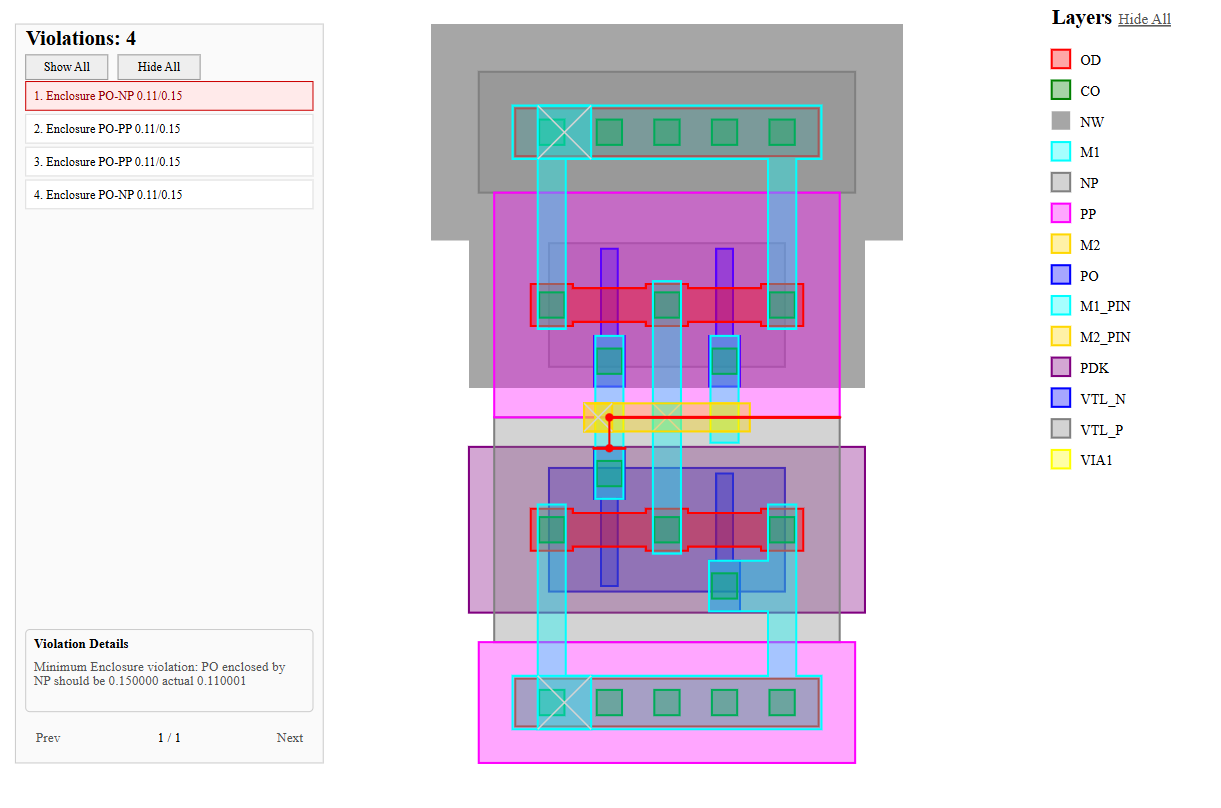
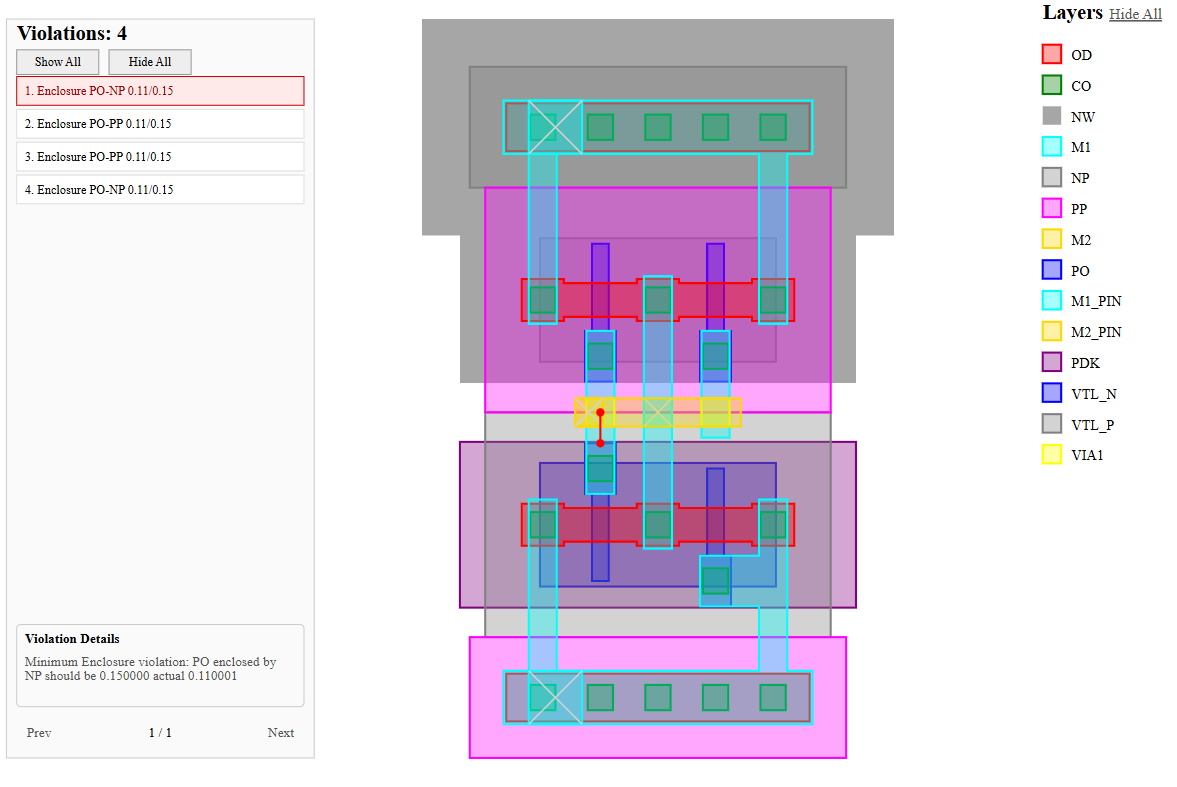
Refine violation reporting and marker serialization
Improve precision and clarity of violation messages and marker serialization in DRCheck. Spacing and enclosure markers now only include closest-point witnesses, omitting edge indices; minimum width violations retain both points and edge indices. Update JSON and SVG outputs for concise, accurate marker data (e.g., `firstLayer` as string). Round reported values to four decimals. Update README and unit tests to reflect changes. SVG overlays for spacing/enclosure now show only measurement lines and points. Minor message and formatting corrections throughout.

diff --git a/tests/rules/MinSpacingRuleTest.cpp b/tests/rules/MinSpacingRuleTest.cpp
@@ -43,10 +43,6 @@ TEST(MinSpacingRuleTest, DetectsSpacingViolation)
 	ASSERT_TRUE(violations[0].getMarker().has_value());
 	const auto& marker = violations[0].getMarker().value();
 	// First nearst edge (point)
-	ASSERT_TRUE(marker.firstEdgeIndex.has_value());
-	ASSERT_TRUE(marker.secondEdgeIndex.has_value());
-	EXPECT_EQ(marker.firstEdgeIndex, 1);
-	EXPECT_EQ(marker.secondEdgeIndex, 3);
 	ASSERT_TRUE(marker.firstPoint.has_value());
 	ASSERT_TRUE(marker.secondPoint.has_value());
 	EXPECT_NEAR(Point::vectorBetween(marker.firstPoint.value(), marker.secondPoint.value()).length(), 2.0, EPSILON);
@@ -183,10 +179,6 @@ TEST(MinSpacingRuleTest, IntersectingShapesAgainstMinSpacing) {
 	EXPECT_EQ(violations[0].getShapeIds()[1], 2);
 	ASSERT_TRUE(violations[0].getMarker().has_value());
 	const auto& marker = violations[0].getMarker().value();
-	ASSERT_TRUE(marker.firstEdgeIndex.has_value());
-	ASSERT_TRUE(marker.secondEdgeIndex.has_value());
-	EXPECT_EQ(marker.firstEdgeIndex, 0);
-	EXPECT_EQ(marker.secondEdgeIndex, 0);
 	ASSERT_TRUE(marker.firstPoint.has_value());
 	ASSERT_TRUE(marker.secondPoint.has_value());
 	EXPECT_NEAR(Point::vectorBetween(marker.firstPoint.value(), marker.secondPoint.value()).length(), 0.0, EPSILON);
@@ -404,11 +396,6 @@ TEST(MinSpacingRuleTest, DetectsContainedPolygon)
 	EXPECT_NEAR(violations[0].getRequiredValue(), 3.0, EPSILON);
 	ASSERT_TRUE(violations[0].getMarker().has_value());
 	const auto& marker = violations[0].getMarker().value();
-	// First nearst edge (point)
-	ASSERT_TRUE(marker.firstEdgeIndex.has_value());
-	ASSERT_TRUE(marker.secondEdgeIndex.has_value());
-	EXPECT_EQ(marker.firstEdgeIndex, 1);
-	EXPECT_EQ(marker.secondEdgeIndex, 1);
 	ASSERT_TRUE(marker.firstPoint.has_value());
 	ASSERT_TRUE(marker.secondPoint.has_value());
 	// Distance can be retrieved as we calculate distance between 2 points

diff --git a/tests/rules/MinEnclosureRuleTest.cpp b/tests/rules/MinEnclosureRuleTest.cpp
@@ -84,7 +84,7 @@ TEST(MinEnclosureRuleTest, RejectsLessThanMinEnclosure)
     Shape first(1, Layer::M1, Purpose::Drawing, std::move(firstPolygon));
     Shape second(2, Layer::VIA1, Purpose::Drawing, std::move(secondPolygon));
     MinEnclosureRule rule(Layer::VIA1, Layer::M1, 3.0);
-    const std::vector<Shape> shapes{first, second};
+    const std::vector<Shape> shapes{ first, second };
     LayerSpatialIndex spatialIndex(shapes);
     const auto violations = rule.check(shapes, spatialIndex);
 
@@ -97,20 +97,9 @@ TEST(MinEnclosureRuleTest, RejectsLessThanMinEnclosure)
     ASSERT_TRUE(violations[0].getMarker().has_value());
     const auto& marker = violations[0].getMarker().value();
     // First nearst edge (point)
-    ASSERT_TRUE(marker.firstEdgeIndex.has_value());
-    EXPECT_EQ(marker.firstEdgeIndex, 0);
-    ASSERT_TRUE(marker.secondEdgeIndex.has_value());
-    EXPECT_EQ(marker.secondEdgeIndex, 3);
     ASSERT_TRUE(marker.firstPoint.has_value());
     ASSERT_TRUE(marker.secondPoint.has_value());
     EXPECT_NEAR(Point::vectorBetween(marker.firstPoint.value(), marker.secondPoint.value()).length(), 2.0, EPSILON);
-    const auto innerEdges = second.getPolygon().getEdges();
-    const auto outerEdges = first.getPolygon().getEdges();
-    ASSERT_TRUE(marker.firstEdgeIndex.has_value());
-    ASSERT_TRUE(marker.secondEdgeIndex.has_value());
-    EXPECT_TRUE(innerEdges[marker.firstEdgeIndex.value()].contains(marker.firstPoint.value()));
-    EXPECT_TRUE(outerEdges[marker.secondEdgeIndex.value()].contains(marker.secondPoint.value()));
-
 }
 
 TEST(MinEnclosureRuleTest, IntersectingAllowedOuterLayerReportsZeroEnclosure) // Intersecting polygon should return violation as enclosure distance is zero

diff --git a/src/rules/MinWidthRule.cpp b/src/rules/MinWidthRule.cpp
@@ -34,9 +34,9 @@ std::vector<domain::Violation> MinWidthRule::check(const std::vector<domain::Sha
 				.secondEdgeIndex = actualWidth.secondEdgeIndex,
 				.firstLayer = getLayer()
 			};
-			const std::string msg = "Minimum width violation on layer: " + domain::layerToString(layer) + "should be " + std::to_string(minimumWidth) + " actual" + std::to_string(actualWidth.distance);
+			const std::string msg = "Minimum width violation on layer: " + domain::layerToString(layer) + " should be " + std::to_string(minimumWidth) + " actual " + std::to_string(actualWidth.distance);
 			// If the shape's width is less than the minimum width, create a violation (object) and add it to the violations vector
-			violations.emplace_back(domain::ViolationType::MinWidth, std::vector<std::size_t>{shape.getId()}, std::move(msg), actualWidth.distance, minimumWidth, marker);
+			violations.emplace_back(domain::ViolationType::MinWidth, std::vector<std::size_t>{shape.getId()}, msg, actualWidth.distance, minimumWidth, marker);
 		}
 	}
 	return violations;

diff --git a/src/rules/MinSpacingRule.cpp b/src/rules/MinSpacingRule.cpp
@@ -50,14 +50,12 @@ std::vector<domain::Violation> MinSpacingRule::check(const std::vector<domain::S
                 domain::ViolationMarker marker{
                     .firstPoint = actualSpacing.firstPoint,
                     .secondPoint = actualSpacing.secondPoint,
-                    .firstEdgeIndex = actualSpacing.firstEdgeIndex,
-                    .secondEdgeIndex = actualSpacing.secondEdgeIndex,
                     .firstLayer = getLayer()
                 };
                 const std::string msg = "Minimum spacing violation on layer: " + domain::layerToString(layer) + "should be " + std::to_string(minimumSpacing) + " actual" + std::to_string(actualSpacing.distance);
 
                 violations.emplace_back(domain::ViolationType::MinSpacing, std::vector<std::size_t>{firstShape.getId(), secondShape->getId()},
-                    "Minimum spacing violation", actualSpacing.distance, minimumSpacing, marker);
+                   msg, actualSpacing.distance, minimumSpacing, marker);
             }
         }
     }

diff --git a/src/rules/MinEnclosureRule.cpp b/src/rules/MinEnclosureRule.cpp
@@ -334,8 +334,6 @@ std::vector<domain::Violation> MinEnclosureRule::check(const std::vector<domain:
             domain::ViolationMarker marker{
                 .firstPoint = actualEnclosure.firstPoint,
                 .secondPoint = actualEnclosure.secondPoint,
-                .firstEdgeIndex = actualEnclosure.firstEdgeIndex,
-                .secondEdgeIndex = actualEnclosure.secondEdgeIndex,
                 .firstLayer = getInnerLayer(),
                 .secondLayer = bestFailedOuterShape->getLayer()
             };

diff --git a/src/io/SVGReportWriter.cpp b/src/io/SVGReportWriter.cpp
@@ -82,7 +82,7 @@ namespace drcheck::io {
 
         double roundForReport(double value)
         {
-            constexpr double scale = 1'000.0;
+            constexpr double scale = 10'000.0;
             return std::round(value * scale) / scale;
         }
 

diff --git a/src/io/JSONReportWriter.cpp b/src/io/JSONReportWriter.cpp
@@ -8,7 +8,7 @@
 namespace {
     double roundForReport(double value)
     {
-        constexpr double scale = 1'000'000.0;
+        constexpr double scale = 10'000.0;
         return std::round(value * scale) / scale;
     }
 }

diff --git a/README.md b/README.md
@@ -11,7 +11,6 @@ DRCheck is a C++ Design Rule Checker for simplified IC layouts. The project focu
 The current end-to-end application and integration tooling can:
 
 - load purpose-tagged layout geometry from JSON and rule definitions from JSON or Tcl;
-- preserve supplied shape IDs during parsing, generate deterministic normalized IDs for checking, and distinguish supported drawing and pin geometry;
 - export supported Cadence Virtuoso layout geometry to DRCheck JSON with optional hierarchy flattening;
 - normalize connected same-layer polygons before DRC execution;
 - translate parsed rule parameters into validated polymorphic rules through a central factory;
@@ -20,7 +19,7 @@ The current end-to-end application and integration tooling can:
 - check missing enclosure and configure alternative outer layers with all-sides or opposite-pair requirements from C++, JSON, or Tcl;
 - build one shared, layer-aware spatial index for a rule run;
 - report actual and required rule values;
-- attach optional point/edge or region-based witness geometry to violations;
+- attach optional closest-point witnesses, edge indices where applicable, or region-based geometry to violations;
 - write machine-readable JSON reports;
 - render fitted SVG layouts with highlighted violation geometry, including density regions; and
 - provide an interactive, paginated SVG violation browser with layer visibility, selective overlays, hover details, and cursor-centered zoom.
@@ -519,7 +518,7 @@ The geometry layer is isolated under `drcheck::geometry` and contains no rule or
 - polygon area clipped to an axis-aligned bounding box through `areaInsideWindow()`; and
 - detailed edge-pair and closest-point results.
 
-Detailed measurements preserve the geometry that produced them. `DistanceResult` stores the distance and closest points, while `PolygonEdgePairResult` also identifies the corresponding polygon edges. Rules use those results to create optional `ViolationMarker` data.
+Detailed measurements preserve the geometry that produced them. `DistanceResult` stores the distance and closest points, while `PolygonEdgePairResult` also identifies the corresponding polygon edges. Rules select only the witness data needed by their reports: width violations retain points and edge indices, while spacing and enclosure violations retain the closest-point pair without edge indices.
 
 `contains(const Polygon&, bool includeBoundary = false)` now defaults to strict containment. Passing `true` allows boundary touching or shared boundary segments while still rejecting proper crossings. The point overload retains its boundary-inclusive default. `MinEnclosureRule` explicitly requests boundary-inclusive polygon containment so touching geometry can be measured and evaluated against the configured requirement.
 
@@ -540,9 +539,9 @@ A `Violation` records:
 - required rule value; and
 - an optional `ViolationMarker`.
 
-`ViolationMarker` supports two forms of violation geometry. Distance- and width-based rules can preserve two witness points and their polygon-edge indices, while window-based rules can preserve a region. It also carries optional `firstLayer` and `secondLayer` values so a report can describe the physical layer or layer pair independently of shape lookup. Width, spacing, enclosure, and density rules populate the applicable layer fields; `DensityRule` uses the region form plus `firstLayer` to identify the exact failing window and its target layer.
+`ViolationMarker` supports optional witness points, polygon-edge indices, and a region. `MinWidthRule` stores two witness points plus the two corresponding edge indices. `MinSpacingRule` and `MinEnclosureRule` store only their two closest witness points; their `firstEdgeIndex` and `secondEdgeIndex` fields remain unset. Window-based density violations store a region instead. The marker also carries optional `firstLayer` and `secondLayer` values so a report can describe the physical layer or layer pair independently of shape lookup. Width, spacing, enclosure, and density rules populate the applicable layer fields; `DensityRule` uses the region form plus `firstLayer` to identify the exact failing window and its target layer.
 
-`JSONReportWriter` serializes marker geometry only when it is present. Point/edge markers retain their witness fields, and region markers emit the region bounds needed by downstream consumers. Reported actual values, witness coordinates, and region bounds are rounded to six decimal places to avoid floating-point noise. The SVG writer consumes the marker layer fields for human-readable violation summaries and measurement labels.
+`JSONReportWriter` serializes marker fields only when they are present. Width markers can therefore contain `firstPoint`, `secondPoint`, `firstEdgeIndex`, and `secondEdgeIndex`, while spacing and enclosure markers emit their points without edge-index fields. Region markers emit the bounds needed by downstream consumers. Reported actual values, witness coordinates, and region bounds are rounded to avoid floating-point noise. The SVG writer consumes the marker layer fields for human-readable violation summaries and measurement labels.
 
 An unenclosed inner shape produces an `Enclosure` violation with only its own shape ID, the message `Inner shape is not enclosed by any allowed outer layer`, and `actual = 0.0`, `required = 0.0`. Its marker identifies `firstLayer` but has no point, edge, or region witness. Those zero values describe the missing-enclosure case, not a configured zero threshold; consumers should inspect the message and participating IDs.
 
@@ -576,13 +575,13 @@ This makes the SVG stacking order deterministic while retaining source order wit
 
 Only layers that exist in the current layout appear in the legend. It provides clickable per-layer controls plus `Hide All`/`Show All`. Hiding a layer hides its shapes, related violation-list rows, and any active shape-referenced overlays associated with that layer.
 
-The left panel turns the standalone SVG into a lightweight violation browser. It shows the total violation count and one compact row per violation containing its number, type, available marker layer or layer pair, and `actual/required` values. Overlays start hidden rather than covering the layout all at once. Clicking a row independently toggles its available red witness edges, measurement line, points, or density region; active rows receive distinct highlighting. Panel-level `Show All` marks every row active and immediately reveals overlays for currently visible rows; `Hide All` clears every selection and overlay. Page/layer updates then synchronize active overlays with layer visibility.
+The left panel turns the standalone SVG into a lightweight violation browser. It shows the total violation count and one compact row per violation containing its number, type, available marker layer or layer pair, and `actual/required` values. Overlays start hidden rather than covering the layout all at once. Clicking a row independently toggles the geometry available for that violation: width can show its two witness edges, measurement line, and points; spacing and enclosure show only their measurement line and closest points; density shows its region. Active rows receive distinct highlighting. Panel-level `Show All` marks every row active and immediately reveals overlays for currently visible rows; `Hide All` clears every selection and overlay. Page/layer updates then synchronize active overlays with layer visibility.
 
 The list is paginated at 19 violations per page with `Prev`, `Next`, and a page indicator, including a valid `1 / 1` state for an empty list. Pagination changes the visible list rows without clearing selected overlays from another page; hiding a related layer does clear the affected selection and overlay.
 
 A dedicated `Violation Details` box displays `Violation::getMessage()` when a row is activated. Deselecting a row returns to `Select a violation` when nothing remains selected, or `Multiple violations selected` otherwise. `Show All` displays `All violations are shown`, while `Hide All` restores the selection prompt. This also exposes the reason for missing-enclosure violations, which have a list entry but no geometric witness to draw. Details currently use a single SVG text line rather than automatic wrapping.
 
-When an active point/edge violation is hovered, its two-line label shows the violation type, available marker layers, and `actual/required` measurement. Shapes provide an SVG tooltip with their normalized shape ID and layer.
+When an active closest-point violation is hovered, its two-line label shows the violation type, available marker layers, and `actual/required` measurement. Shapes provide an SVG tooltip with their normalized shape ID and layer.
 
 The generated SVG contains its own JavaScript and remains a standalone file:
 
@@ -612,7 +611,7 @@ For every shape on the target layer, the rule:
 1. expands the shape bounding box by the required minimum spacing;
 2. queries that layer through the shared `LayerSpatialIndex`;
 3. removes self-pairs and duplicate A-B/B-A pairs; and
-4. calls `Polygon::distanceTo()` for exact spacing and witness geometry.
+4. calls `Polygon::distanceTo()` for exact spacing and the closest-point witness pair.
 
 ```text
 target-layer shape
@@ -690,7 +689,7 @@ For every inner-layer shape, the rule:
 6. when relevant candidates all fail, reports one violation using the alternative closest to passing; and
 7. when no relevant allowed outer geometry exists, reports the inner shape as unenclosed.
 
-Failure selection compares the all-sides deficit with each orientation's largest pair deficit, then retains the smallest deficit across alternatives and outer candidates. The reported `actual/required` values describe that chosen failure. Pairwise failures still obtain point/edge witness geometry from `distanceTo(..., false)`; directional witnesses are not yet part of `PairwiseEnclosureResult`.
+Failure selection compares the all-sides deficit with each orientation's largest pair deficit, then retains the smallest deficit across alternatives and outer candidates. The reported `actual/required` values describe that chosen failure. Pairwise failures obtain the two closest witness points from `distanceTo(..., false)` but deliberately omit its edge indices; directional witnesses are not yet part of `PairwiseEnclosureResult`.
 
 Missing enclosure is no longer a conditional skip. An inner shape completely outside all allowed outer geometry, or with no allowed outer layer present, produces a violation. Overlapping/intersecting candidates remain eligible for failure reporting; a later valid option can still make the same inner shape pass.
 
@@ -1054,28 +1053,18 @@ These are workload- and machine-specific measurements, not universal performance
 
 ## Known Limitations
 
-The current implementation intentionally favors a clear, well-tested architecture over full production-rule coverage.
+This section lists user-facing capabilities that are reasonable to expect from a layout DRC workflow but are not currently supported.
 
-- `MinWidthRule` currently supports orthogonal polygons only.
-- Normalization assigns new sequential shape IDs, so violation `shapeIds` from the complete runner refer to normalized geometry rather than the original exporter IDs.
-- Pairwise enclosure requires a rectangular, axis-aligned inner polygon and an orthogonal outer polygon. Unsupported geometry or unresolved directional measurements raise exceptions rather than falling back to another measurement method.
-- Enclosure options provide all-sides OR opposite-pair alternatives in either orientation, not a general Boolean rule language or fixed horizontal/vertical requirements.
-- Pairwise violations report one selected scalar failure and use generic nearest-boundary witnesses; they do not serialize all four side distances or provide pair-specific witness geometry.
-- Missing-enclosure violations identify the inner shape and explain the failure, but currently use `0.0/0.0` values and a layer-only marker. They appear in the SVG list/details without a geometric overlay.
-- QuadTree queries can return false-positive candidates; exact geometry remains required.
-- Spatial-index performance depends on geometry distribution and can degrade toward brute-force behavior in unfavorable layouts.
-- `DensityRule` uses a fixed, axis-aligned grid with one `windowSize` and `windowStep`; adaptive or multiscale density analysis is not implemented.
-- Automatic density analysis bounds require at least one layout shape; an explicit analysis region is required for an empty layout.
-- `DensityRule` currently reuses the numeric `DRC_LENGTH_TOLERANCE` for dimensionless density comparisons as well as its window-grid bounds. There is no separate density tolerance or rule-deck tolerance setting.
-- Layout JSON currently accepts only micrometer units, the enumerated layer names, and the exact `drawing` or `pin` purpose strings.
-- Rules and the spatial index select geometry by `Layer`; `Purpose` is preserved on `Shape` but is not yet an independent rule-deck selector. Pin geometry that must be checked separately therefore relies on explicit layer identities such as `M1_PIN` and `M2_PIN`.
-- The Virtuoso exporter supports `rect`, `polygon`, `path`, `pathSeg`, and `1 x 1` `stdVia` geometry. A supported via emits its cut and two enclosure regions, but via arrays and other figure types are skipped, and hierarchy remaining beyond the requested flatten depth is not serialized.
-- The Virtuoso exporter preserves the source PDK's layer and purpose strings. Exported names outside DRCheck's current layer/purpose vocabulary must be mapped or added before the JSON can be loaded.
-- SVG layer filtering associates violations through participating shape IDs. Region-only density violations do not carry shape IDs, so their highlighted regions are not currently tied to a layer toggle.
-- The CLI selects rule-deck parsers by the exact `.json` or `.tcl` extension; other extensions are rejected.
-- Tcl rule decks expose `rule`, while automation scripts expose only `drc_run` and `drc_error_count` as DRCheck-specific commands.
-- `drc_run` always writes its JSON report immediately and optionally writes SVG; deferred export is not implemented.
-- Automation state retains only the most recent run's violations.
+- Layout import is limited to DRCheck's polygon JSON format; the checker does not read GDSII directly. Input units must be `"um"`, and layers and purposes must use the names listed in this README.
+- The implemented rule-deck families are minimum width, same-layer minimum spacing, minimum enclosure, and density. Other foundry checks are not accepted as rule types, and minimum spacing cannot compare two different layers.
+- Minimum-width checking supports Manhattan/orthogonal polygons only; non-Manhattan width is not implemented.
+- Pairwise enclosure requires an axis-aligned rectangular inner polygon and an orthogonal outer polygon. Its options support all-sides requirements and orientation-independent opposite-pair alternatives, but not arbitrary Boolean combinations or requirements permanently assigned to horizontal versus vertical sides.
+- Density rules use square, axis-aligned windows on a fixed grid. Rectangular or rotated windows, explicit grid offsets, and adaptive or multiscale sampling are not supported.
+- Rules select geometry by `Layer`, not by `Purpose`. The imported `drawing`/`pin` purpose is preserved, but it cannot be used as a rule-deck filter.
+- Layout normalization cannot represent holes or a multi-contour union result in one `Shape`; such a union is rejected. It also replaces exporter IDs with sequential normalized IDs, and reports do not provide a mapping back to the source-shape IDs.
+- The Virtuoso exporter supports `rect`, `polygon`, `path`, `pathSeg`, and only `1 x 1` standard vias. Via arrays and other figure types are skipped, and hierarchy that remains beyond the requested flatten depth is not serialized.
+- The SVG viewer supports wheel zoom and full-view reset but not click-drag panning. Region-only density violations also have no participating shape IDs, so hiding their target layer does not hide the corresponding region or violation-list item.
+- Tcl automation exposes only `drc_run` and `drc_error_count`, and retains only the latest run's violations. Per-run history, violation filtering, and richer result queries are not available.
 
 ## Next Development Areas
 
